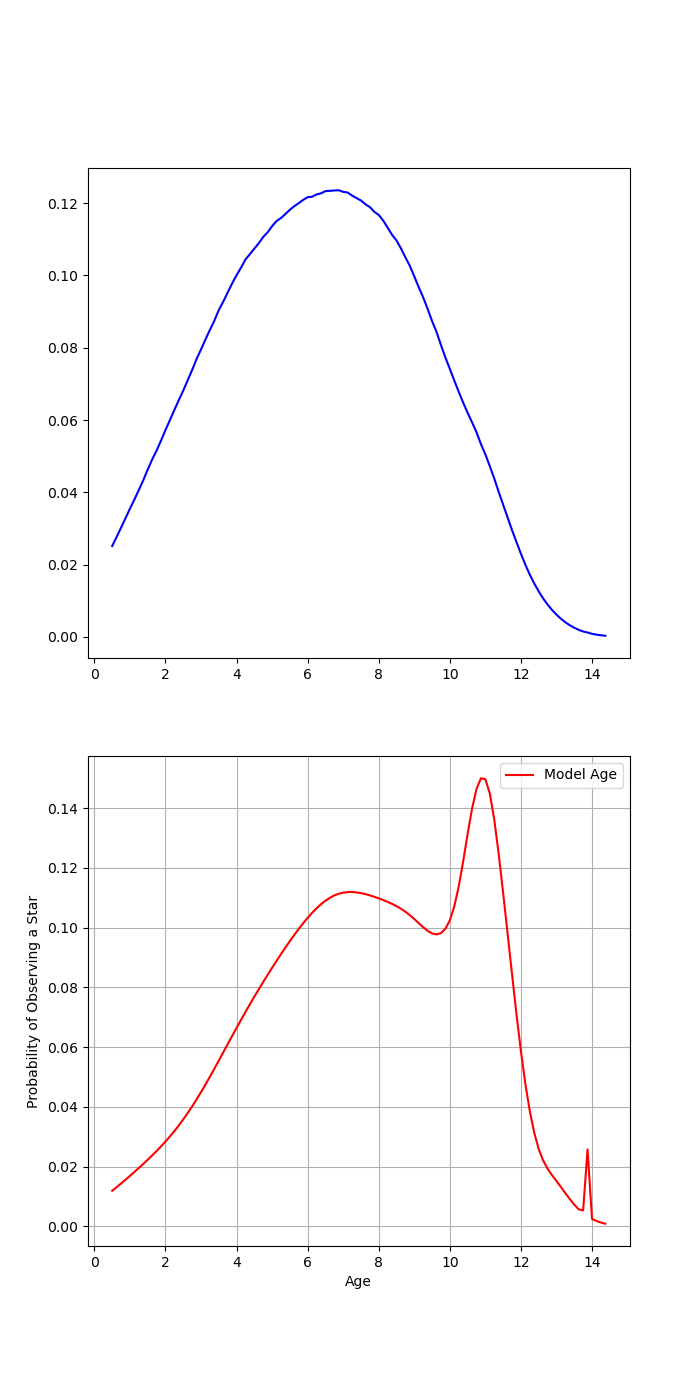
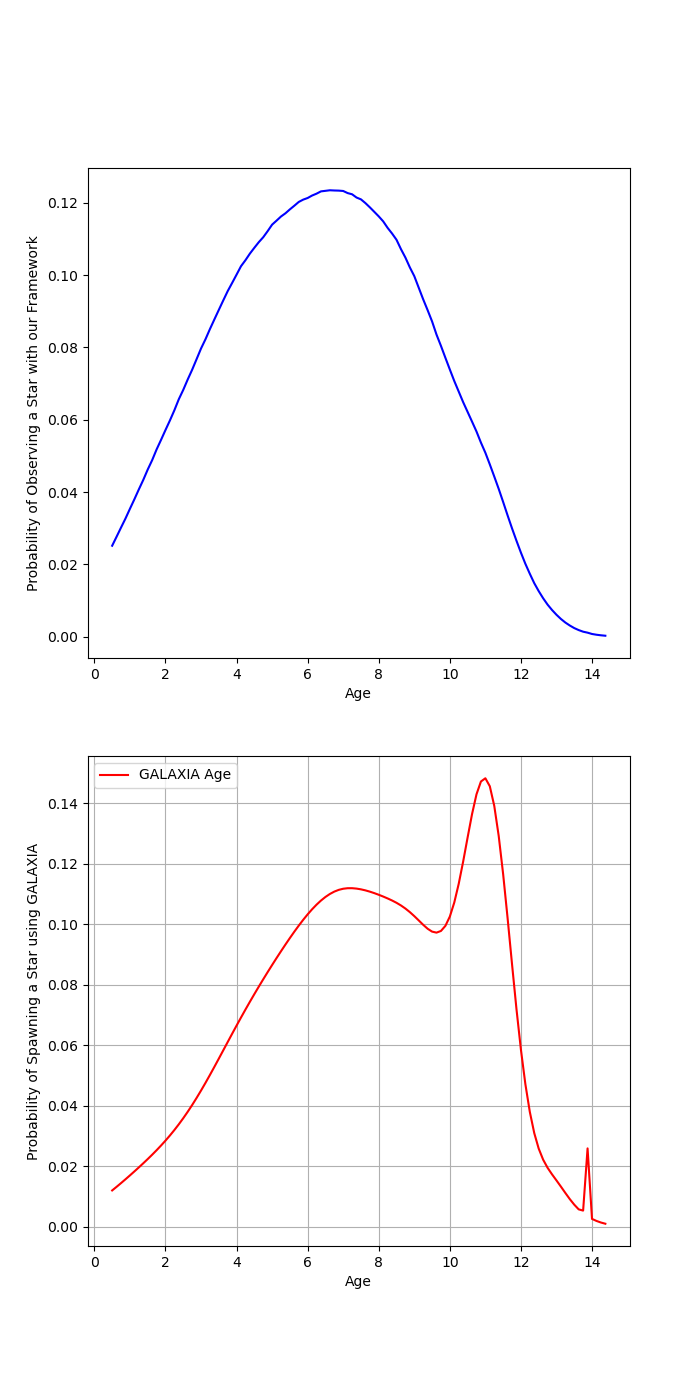
Commit scripts integrated into the run.sh workflow.

diff --git a/PDF_estimation.py b/PDF_estimation.py
@@ -30,7 +30,6 @@ from ipyaladin import Aladin    # version >=0.3.0
 #(63,-6)
 #*(12,-63)
 
-
 # specific_feh = -0.5  # Example value for feh -1.5
 # specific_distance = 5200  # Example value for distance 210
 long = float(sys.argv[1])                                 
@@ -42,8 +41,8 @@ bin_size_distance = 200
 bin_size_feh = 50
 bin_size_age = 40
 bin_along_distance = False 
-bin_along_distance_feh = False
-bin_along_distance_age = True
+bin_along_distance_feh = True if sys.argv[3] == 'True' else False
+bin_along_distance_age = True if sys.argv[4] == 'True' else False
 
 
 # the catalogue name in VizieR
@@ -586,28 +585,30 @@ if bin_along_distance_feh == True:
     
     # Plot the Q-Q plot
     plt.figure(figsize=(8, 6),dpi=300)
-    plt.scatter(theoretical_quantiles, data_quantiles, s=5, color='orange', label='Data vs. Theoretical')
+    plt.scatter(theoretical_quantiles, data_quantiles, s=5, color='orange', label='Data vs. Framework Model')
     plt.plot(theoretical_quantiles, theoretical_quantiles, 'b--', label='Perfect Match (y=x)')
-    plt.title('Q-Q Plot: Data vs. Theoretical')
-    plt.xlabel('Theoretical Quantiles')
+    plt.title('Q-Q Plot: Data vs. Framework Model Age Distribution')
+    plt.xlabel('Framework Model Quantiles')
     plt.ylabel('Data Quantiles')
     plt.legend()
     plt.grid(True)
-    plt.savefig(f'/Users/advik/OPACOS/RESULTS/Data Age vs Theoretical Age Q-Q plot for ({long},{lat}).png',dpi=300)
+    plt.savefig(f'/Users/advik/OPACOS/RESULTS/Data Age vs Framework Model Age Q-Q plot for ({long},{lat}).png',dpi=300)
     #plt.show()
         
     # print(age_peak,age_median_peak,age_16_percent,age_84_percent)
     plt.figure(figsize=(7,14))
     plt.subplot(211)
-    plt.plot(age,final_prob,label='Observed Selection Age', color= 'blue')
-    plt.subplot(212)    
-    plt.plot(age,final_prob_model,label='Model Age', color = 'red')
+    plt.plot(age,final_prob,label='Framework Age', color= 'blue')
     plt.xlabel('Age')
-    plt.ylabel('Probability of Observing a Star')
+    plt.ylabel('Probability of Observing a Star with our Framework')    
+    plt.subplot(212)    
+    plt.plot(age,final_prob_model,label='GALAXIA Age', color = 'red')
+    plt.xlabel('Age')
+    plt.ylabel('Probability of Spawning a Star using GALAXIA')
     plt.legend()
     plt.grid()
     # plt.scatter(age_peak,gaia_age)
-    plt.savefig(f'/Users/advik/OPACOS/RESULTS/Theoretical Inferred Age and GALAXIA Age PDF for ({long},{lat}).png')
+    plt.savefig(f'/Users/advik/OPACOS/RESULTS/Framework Inferred Age and GALAXIA Age PDF for ({long},{lat}).png')
     #plt.show()
 
     data_age = pd.DataFrame(filtered_age)
@@ -768,15 +769,15 @@ if bin_along_distance_age == True:
     
     # Plot the Q-Q plot
     plt.figure(figsize=(8, 6),dpi=300)
-    plt.scatter(theoretical_quantiles, data_quantiles, s=5, color='orange', label='Data vs. Theoretical')
+    plt.scatter(theoretical_quantiles, data_quantiles, s=5, color='orange', label='Data vs. Framework Model')
     plt.plot(theoretical_quantiles, theoretical_quantiles, 'b--', label='Perfect Match (y=x)')
-    plt.title('Q-Q Plot: Data vs. Theoretical')
-    plt.xlabel('Theoretical Quantiles')
+    plt.title('Q-Q Plot: Data vs. Framework Model [Fe/H] Distribution')
+    plt.xlabel('Framework Model Quantiles')
     plt.ylabel('Data Quantiles')
     plt.legend()
     plt.grid(True)
     fe_h = "Fe-H"
-    plt.savefig(f'/Users/advik/OPACOS/RESULTS/Data {fe_h} vs Theoretical {fe_h} Q-Q plot for ({long},{lat}).png',dpi=300)
+    plt.savefig(f'/Users/advik/OPACOS/RESULTS/Data {fe_h} vs Framework Model {fe_h} Q-Q plot for ({long},{lat}).png',dpi=300)
     #plt.show()
     
     #print(feh_peak,feh_median_peak,feh_16_percent,feh_84_percent)
@@ -786,13 +787,15 @@ if bin_along_distance_age == True:
     plt.figure(figsize=(7,14))
     plt.subplot(211)
     plt.plot(feh,final_prob,label='Observed Selection metallicity',color = 'blue')
-    plt.subplot(212)    
-    plt.plot(feh,final_prob_model,label='Model Metallicity', color = 'red')
     plt.xlabel('[Fe/H]')
-    plt.ylabel('Probability of Observing a Star')
+    plt.ylabel('Probability of Observing a Star with our Framework')    
+    plt.subplot(212)    
+    plt.plot(feh,final_prob_model,label='GALAXIA Metallicity', color = 'red')
+    plt.xlabel('[Fe/H]')
+    plt.ylabel('Probability of Spawning a Star using GALAXIA')
     plt.legend()
     plt.grid()
-    plt.savefig(f'/Users/advik/OPACOS/RESULTS/Theoretical Inferred {fe_h} and GALAXIA {fe_h} PDF for ({long},{lat}).png')
+    plt.savefig(f'/Users/advik/OPACOS/RESULTS/Framework Inferred {fe_h} and GALAXIA {fe_h} PDF for ({long},{lat}).png')
     #plt.show()
 
     data_feh = pd.DataFrame(filtered_feh)

diff --git a/Calculate_pdf.py b/Calculate_pdf.py
@@ -7,7 +7,8 @@ import pandas as pd
 import seaborn as sns
 from scipy.integrate import dblquad
 from scipy.integrate import quad
-import mathimport pandas as pd
+import math
+import pandas as pd
 
 
 #(270,-73)
@@ -479,21 +480,23 @@ if bin_along_distance_feh == True:
     x = np.zeros(len(survey_prob[0]))
     for i in range(len(survey_prob)):
         x = x + survey_prob[i]
-    final_prob = x/len(survey_prob)
+    final_prob = x/(np.trapz(x,age))
 
     y = np.zeros(len(survey_prob_model[0]))
     for i in range(len(survey_prob_model)):
         y = y + survey_prob_model[i]
-    final_prob_model = y/len(survey_prob_model)
+    final_prob_model = y/(np.trapz(y,age))
 
     print(age_peak,age_median_peak,age_16_percent,age_84_percent)
     plt.figure(figsize=(7,14))
     plt.subplot(211)
     plt.plot(age,final_prob,label='Observed Selection Age', color= 'blue')
-    plt.subplot(212)    
-    plt.plot(age,final_prob_model,label='Model Age', color = 'red')
     plt.xlabel('Age')
-    plt.ylabel('Probability of Observing a Star')
+    plt.ylabel('Probability of Observing a Star with our Framework')
+    plt.subplot(212)    
+    plt.plot(age,final_prob_model,label='GALAXIA Age', color = 'red')
+    plt.xlabel('Age')
+    plt.ylabel('Probability of Spawning a Star using GALAXIA')
     plt.legend()
     plt.grid()
 # plt.scatter(age_peak,gaia_age)
@@ -616,21 +619,23 @@ if bin_along_distance_age == True:
     x = np.zeros(len(survey_prob[0]))
     for i in range(len(survey_prob)):
         x = x + survey_prob[i]
-    final_prob = x/len(survey_prob)
+    final_prob = x/(np.trapz(x,feh))
 
     y = np.zeros(len(survey_prob_model[0]))
     for i in range(len(survey_prob_model)):
         y = y + survey_prob_model[i]
-    final_prob_model = y/len(survey_prob_model)
+    final_prob_model = y/(np.trapz(y,feh))
 
     print(feh_peak,feh_median_peak,feh_16_percent,feh_84_percent)
     plt.figure(figsize=(7,14))
     plt.subplot(211)
-    plt.plot(feh,final_prob,label='Observed Selection metallicity',color = 'blue')
-    plt.subplot(212)    
-    plt.plot(feh,final_prob_model,label='Model Metallicity', color = 'red')
+    plt.plot(feh,final_prob,label='Observed Selection Metallicity',color = 'blue')
     plt.xlabel('[Fe/H]')
-    plt.ylabel('Probability of Observing a Star')
+    plt.ylabel('Probability of Observing a Star with our Framework')    
+    plt.subplot(212)    
+    plt.plot(feh,final_prob_model,label='GALAXIA Metallicity', color = 'red')
+    plt.xlabel('[Fe/H]')
+    plt.ylabel('Probability of Spawning a Star using GALAXIA')
     plt.legend()
     plt.grid()
 # plt.scatter(age_peak,gaia_age)

diff --git a/data_cube.py b/data_cube.py
@@ -19,11 +19,11 @@ age = np.arange(0.5, 14.5, 0.125)
 
 nstars = 100000  # number of stars
 imf_slope = -2.35  # IMF slope. -2.35 is Salpeter pure power-law
-imf_type = 'kroupa' # You can use three IMF systems: * salpeter 
-                      #                                * kroupa  
-                      #                                * chabrierlognormal
+imf_type = sys.argv[4] # You can use three IMF systems: * salpeter 
+                       #                                * kroupa  
+                       #                                * chabrierlognormal
 
-Phot_sys = '2mass' # You can use * 'GAIA_EDR3' or * '2mass'
+Phot_sys = sys.argv[3] # You can use * 'GAIA_EDR3' or * '2mass'
                              
 fai_lim = 14.0  # faint magnitude limit 20.0 19.0
 bri_lim = 12.0   # bright magnitude limit 3.0 12.0 
@@ -38,8 +38,8 @@ midi = 10.0  # minimum distance
 madi = 10000.0  # maximum distance
 dedi = 100.0  # distance step
 
-extinction_mode = 'out_plane' # 'in_pkane' for the computation of extinction using extinction due to spiral arms and schlegel maps
-                             # 'out_plane' for the computation of extinction using extinction using general schlegel maps
+extinction_mode = sys.argv[5] # 'in_pkane' for the computation of extinction using extinction due to spiral arms and schlegel maps
+                              # 'out_plane' for the computation of extinction using extinction using general schlegel maps
 R_BP = 3.1
 R_RP = 2.2
 R_G = 2.7

diff --git a/modify_myparameterfile.py b/modify_myparameterfile.py
@@ -2,10 +2,11 @@ import sys
 
 galactic_long = sys.argv[1]
 galactic_lat = sys.argv[2]
+survey_area = sys.argv[3]
 with open('/Users/advik/GalaxiaData/Examples/myparameterfile','r') as file:
 	lines = file.readlines()
 	lines[11] = f"longitude                           {galactic_long}\n"
 	lines[12] = f"latitude                            {galactic_lat}\n"
-
+	lines[13] = f"surveyArea                          {survey_area}\n"
 with open('/Users/advik/GalaxiaData/Examples/myparameterfile', 'w') as file:
 	file.writelines(lines)

diff --git a/README.md b/README.md
@@ -26,7 +26,9 @@ Download the zip file in the desired folder.
 
 <h2>Running OPACOS:</h2>
 
-To Run OPACOS it is quite straightforward (although sooner we will further streamline the process). To run OPACOS we need to do folow following steps:
+<h3>1. First Approach (More interactive and experimental in purpose):</h3>
+
+To Run OPACOS it is quite straightforward (although more streamline process is available in the next section). To run OPACOS we need to do follow the following steps:
 
 - Generate the stars in Milky Way galaxy using GALAXIA. To do that go inside GalaxiaData folder that must have been created as mention in GALAXIA doxumentation. Then go to Examples and open **myparameterfile** in it. Once it is open set the location of the center of the cone that you want to simulate the stars in along with the area that you are interested in. 
 - Make sure that the circular patch option is selected instead of all sky survey in **myparameter** file.
@@ -35,15 +37,15 @@ To Run OPACOS it is quite straightforward (although sooner we will further strea
 
   ```python galaxy1.py```
   
-- Read the **data_cube.py** file and keep the the selection effects settings and other settings according to your survey and region of interest. 
-- After reading the **data_cube.py** and keeping the required settings then run:
+- Read the **prob_grid.py** file and keep the the selection effects settings and other settings according to your survey and region of interest. 
+- After reading the **prob_grid.py** and keeping the required settings then run:
   
-  ```python data_cube.py```
+  ```python prob_grid.py```
   
 - After doing this we are done with the probability calculation grid and it is stored in **results.dat** file. This probability grid will be used along with galaxy data stored in **galaxia.dat** in order to get the required parameter distribution.
 
 - Now what is left is to go through the **Read_fits.ipynb** to get the priors as discussed in the introduction. 
-- Go through the **Read_fiits.ipynb** and set the center coordinates of the sky for the cone of interest. We also change the area, both the changes are to be done as we have set the settings while simulating galaxy that is same values as that in **myparamterfile**.
+- Go through the **Read_fits.ipynb** and set the center coordinates of the sky for the cone of interest. We also change the area, both the changes are to be done as we have set the settings while simulating galaxy that is same values as that in **myparamterfile**.
 - After going through all the tabs you need to use the **age_distance** and **feh_distance** arrays and replace the old arrays in **Calculate_pdf.py** .
 - **Calculate_pdf.py** code generates both the observed parameter distribution(if you want) and the synthetic paramter distribution through our framework for you too compare and infer from.
 - If you want to generate the synthetic age distribution then you need to set **bin_along_distance_feh** value as **True** otherwise **False**.
@@ -65,8 +67,53 @@ The above distributions are calculated around the galactic long. and lat. values
 <img src="./Example_images/63_-12_feh_framework.jpeg" alt="Project Diagram" width="400" />
 
 The above distributions are calculated around the galactic long. and lat. values of (l,b) = (63.0,-12.0). The first distribution above is of the GALAH feh distribution whereas the second distribution is the synthetic distribution that we got from our framework.
+Although remember the model distributions are not normalized in the given figures although it does not affect are purpose as long as the shape of distribution accross the range of parameter remains same (In the current system the distributions are normalised).
+
+<h3>Second approach (Streamline, faster and easy to use):</h3>
+
+This approach is more direct, faster and easier to use for getting model and data distributions along with thier correlations in different portions of sky. For this approach we are also using and comparing the GALAHH $[Fe/H]$ data survey (which is supported by the GAIA DR3 distances and ages data). For this method you have to run only one script by the name **run.sh**. Before coming to this, i will explain the few input arguments that can be modified as per your use in the **run.sh** file :
+
+- You can modify the **galactic_latitude** and **galactic_longitude** parameter in the file. This is used to mark the center of the circular region of interest in sky to be analysed by our framework.
+
+- You can modify **survey_area** parameter in the file. This is used to define the area with **galactic_latitude** and **galactic_longitude** as center, to be analysed by our framework.
+
+- Argument **Phot_sys** can be given as either **'GAIA_EDR3'** or **'2mass'** based on the survey and the selection criteria. Since we are using **GALAH** survey data we have kept the **Phot_sys** to be **'2mass'**.
+
+- The argument **imf_type** can be taken either as **'salpeter'**, **'kroupa'** or **'chabrierlognormal'**. According to latest studies, the 'kroupa' and 'chabrierlognormal' IMFs do not overestimate the number of stars in low mass region unlike the 'salpeter' IMF. Thus we usually prefer the 'kroupa' or 'chabrierlognormal' IMfs but it comes at the cost of longer computation time. The IMFs are required to generate stars to be used with isochrones to calculate the probability of observing a star using **data_cube.py** code.
+
+- The argument **extinction_mode** can be either **out_plane** if the region of interest is out of the galactic plane or **in_plane** otherwise. This is used to derive the extinction using different approaches for stars in galactic plane and for stars out of galactic plane.
+
+- If you want to infer the model age distribution set the argument **age_distribution** to be **True** or otherwise **False**.
+
+- If you want to infer the model $[Fe/H]$ distribution set the argument **feh_distribution** to be **True** or otherwise **False**.
+
+- Additional note : The selection function is specifically taken for GALAH survey data in our case. If you want to modify it you can check it in **data_cube.py** .
+
+Now, after modifying the input settings (mentioned above) as per your interest, you can simply run:
+
+  ```./run.sh```
+
+After this all the resultant plots will be saved in the **RESULTS** folder.
+
+The model and data plots will be same with this and previous approach so, you can refer to the previous section to see the example plots.
+
+I will specifically show an additional plot generated via this approach which is a Q-Q plot comparing the data and  shown below for (l,b) = (270,-73):
+
+<img src="./RESULTS/Data\ Age\ vs\ Framework\ Model\ Age\ Q-Q\ plot\ for\ \(270.0,-73.0\).png" alt="Project Diagram" width="400" />
+The above plot compares the Data age and our model framework age PDF.
+<img src="./RESULTS/Data\ Fe-H\ vs\ Framework\ Model\ Fe-H\ Q-Q\ plot\ for\ \(270.0,-73.0\).png" alt="Project Diagram" width="400" />
+The above plot compares the Data $[Fe/H]$ and our model framework $[Fe/H]$ PDF.
+
+We can clearly see an agreement in the data distribution and the model framework distribution in above plots.
+
+<h3>Progress to be made in future:</h3>
+
+- Although, we see an agreement, we also have to acknowledge that the distributions are sensitive to some loose parameters which are the bin sizes while sampling the GALAXIA model.
+
+- Thus, I am currently working on training the model to determine the loose parameters and this would help us to further rely on the results we get.
+
+- Right now we are only comparing the present Data Age and Model Age, but after training the loose parameters we will also pursue to predict the age or $[Fe/H]$ distributions from our framework as only then we can reliably infer the distributions.
 
 
 
- 
 
